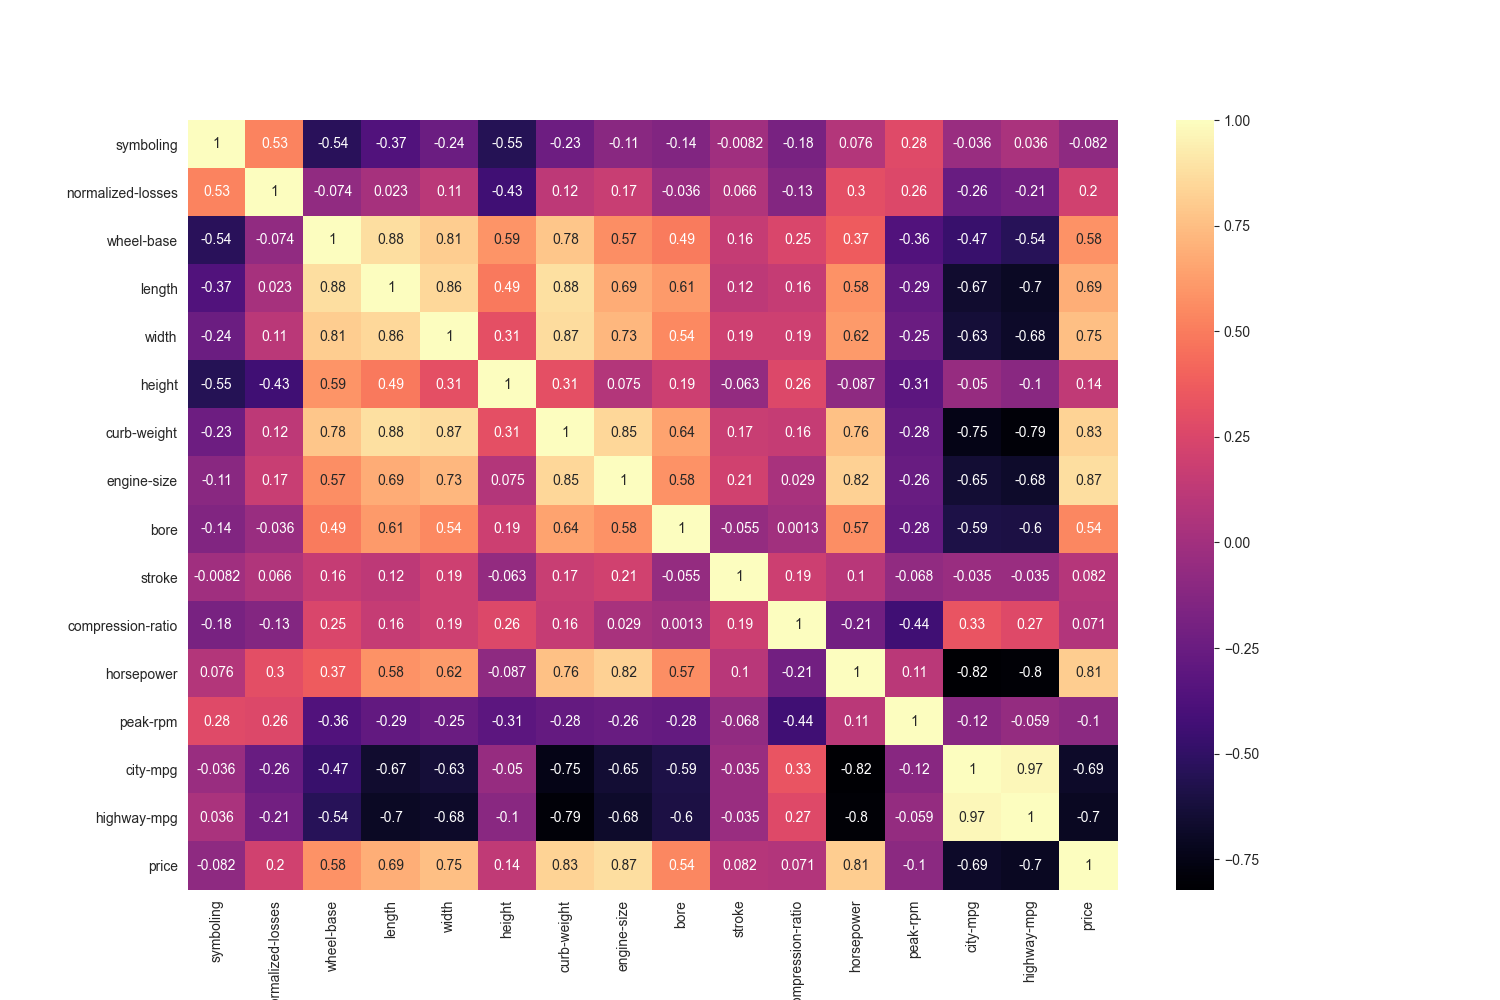
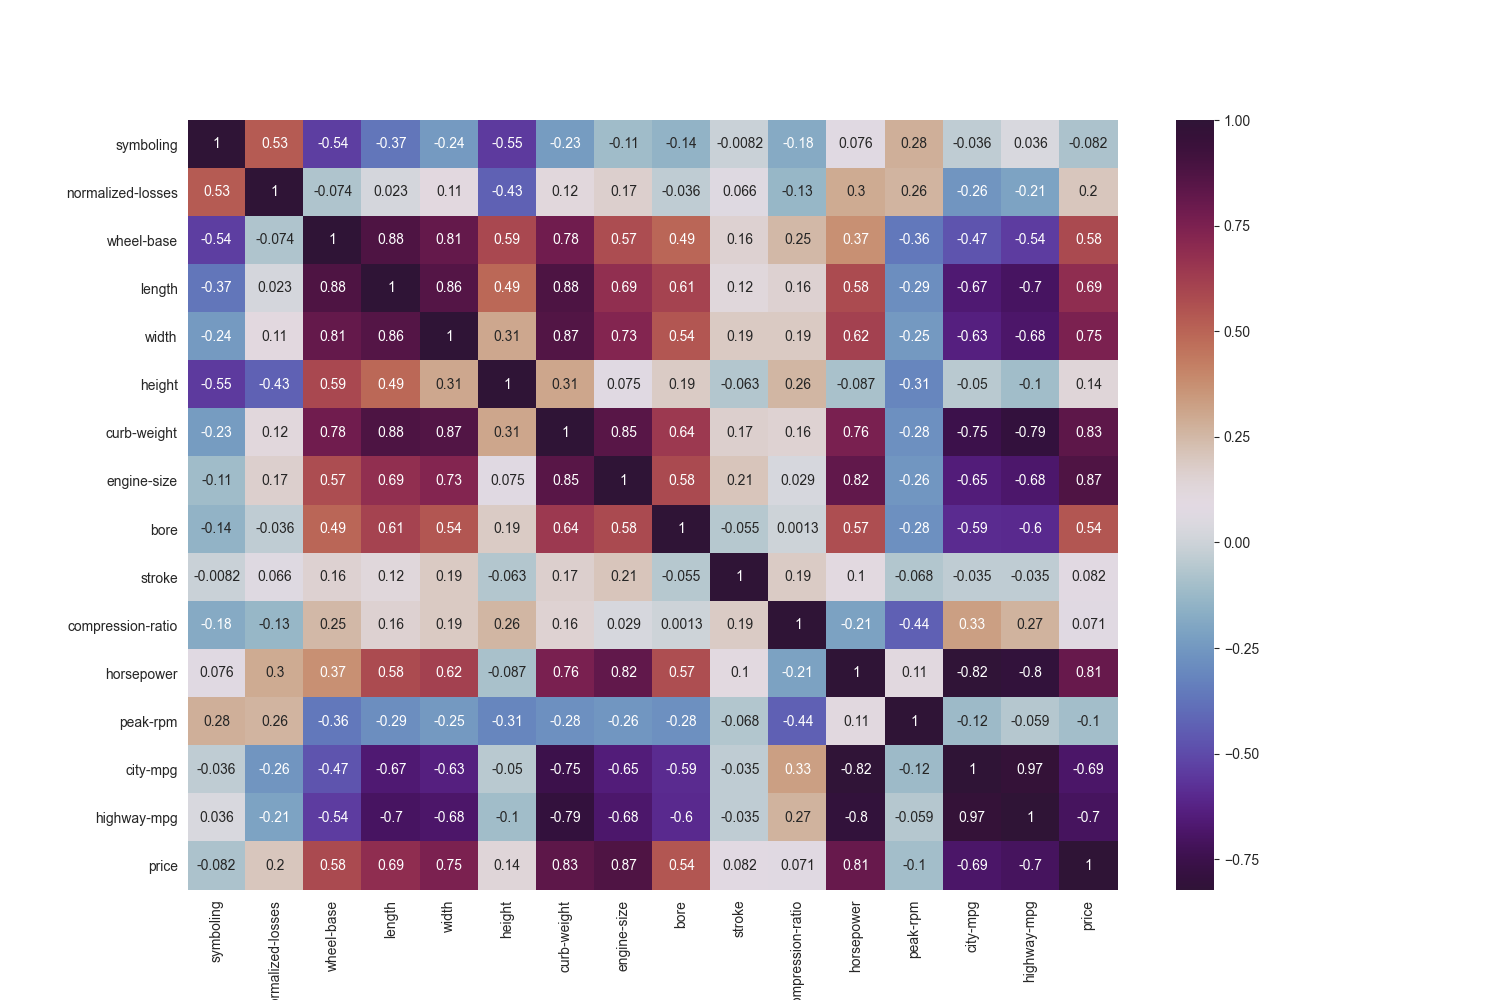
pēc patstāvīgiem izmēģinājumiem

diff --git a/vizualizacijas.py b/vizualizacijas.py
@@ -11,7 +11,7 @@ plt.rcParams['figure.figsize'] = (15, 10) # plot size
 # Karstuma karte (korelācija)
 def karstuma_karte(datne, saglabat=False):
     df = pd.read_csv(datne)
-    sb.heatmap(df.corr(), annot = True, cmap = 'magma')
+    sb.heatmap(df.corr(), annot = True, cmap = 'twilight_shifted')
     if saglabat:
         # izveidojam datnes nosaukumu bez mapes un faila tipe
         datnes_vards = datne[datne.find("/"):datne.find(".")]
@@ -52,11 +52,11 @@ def izkliedes_grafiks(datne, x, y, saglabat=False):
 datne1 = 'dati/auto_simple.csv'
 datne2 = 'dati/auto_imports.csv'
 
-# karstuma_karte(datne2, True) # True saglabā failā
+karstuma_karte(datne2, True) # True saglabā failā
 # sadalijuma_grafiks(datne2, "price")
 # sadalijuma_grafiks(datne1, "CO2",True)
 # izkliedes_grafiks(datne1, 'Volume', 'CO2')
 # izkliedes_grafiks(datne1, 'Weight', 'CO2')
 # izkliedes_grafiks(datne1, 'Volume', 'Weight')
-izkliedes_grafiks(datne2, 'price', 'make')
-izkliedes_grafiks(datne2, 'length', 'city-mpg')
+# izkliedes_grafiks(datne2, 'price', 'make')
+# izkliedes_grafiks(datne2, 'length', 'city-mpg')
